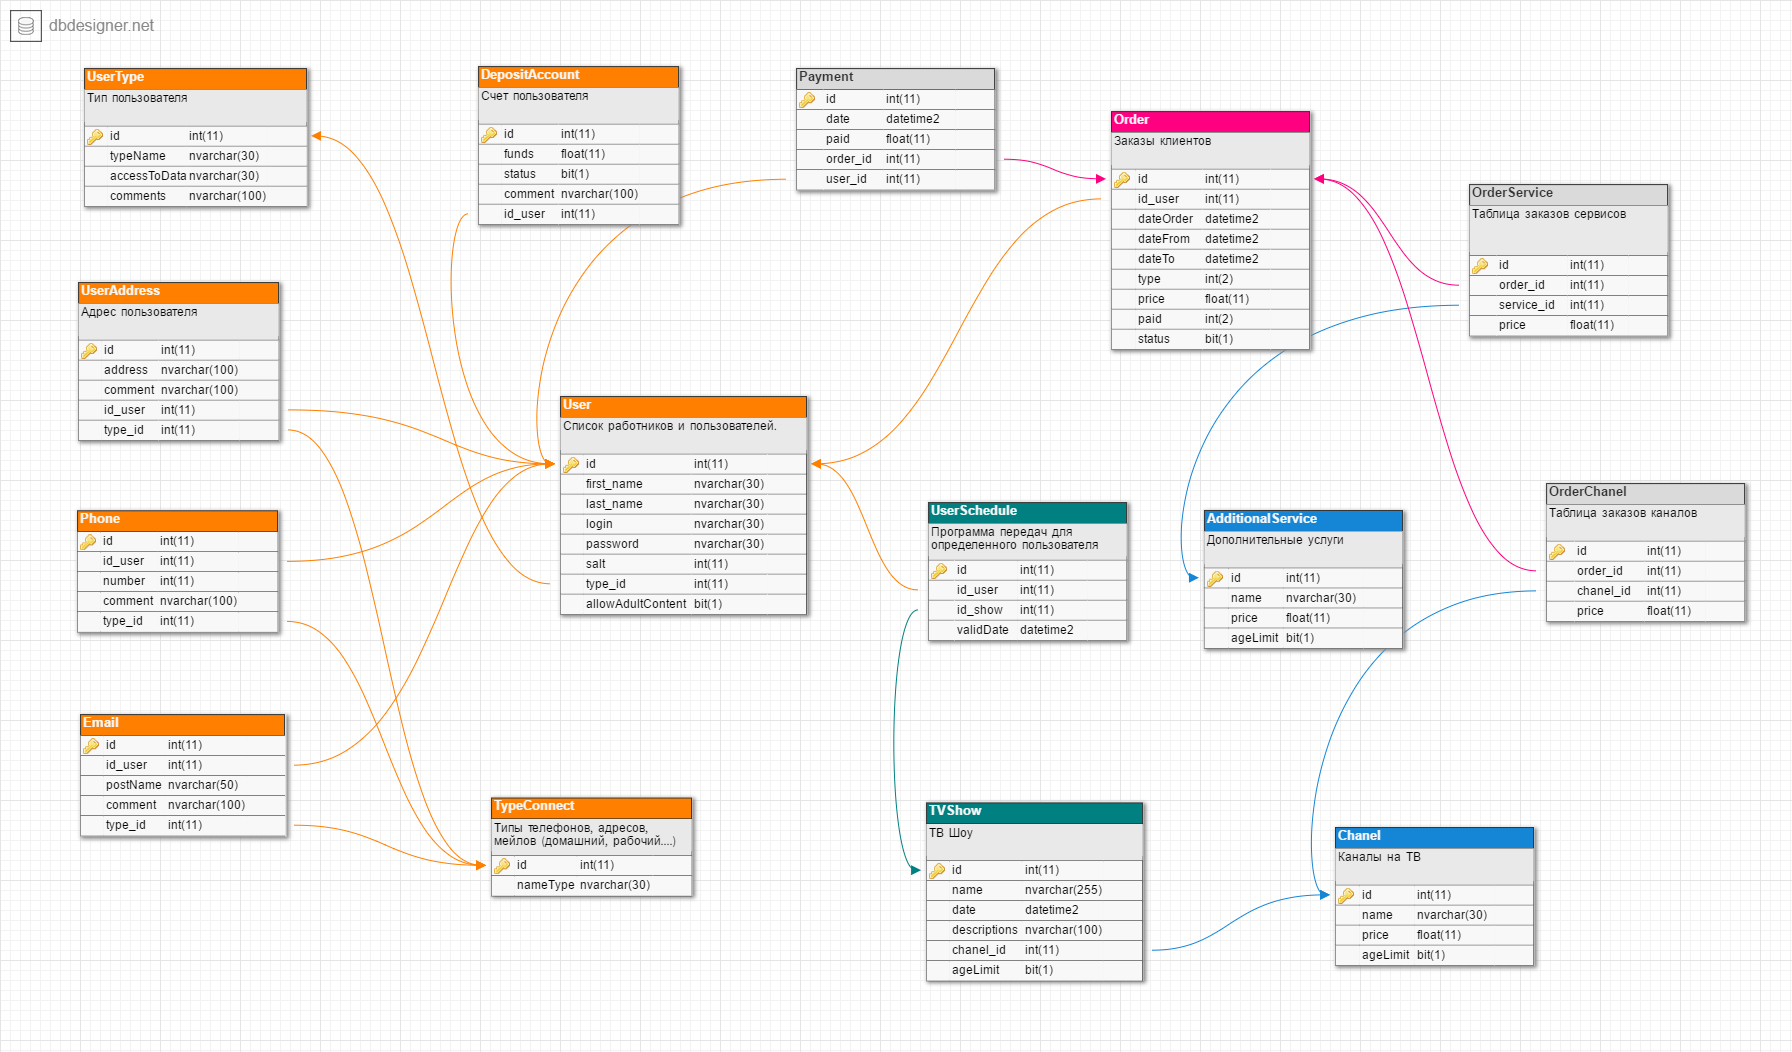
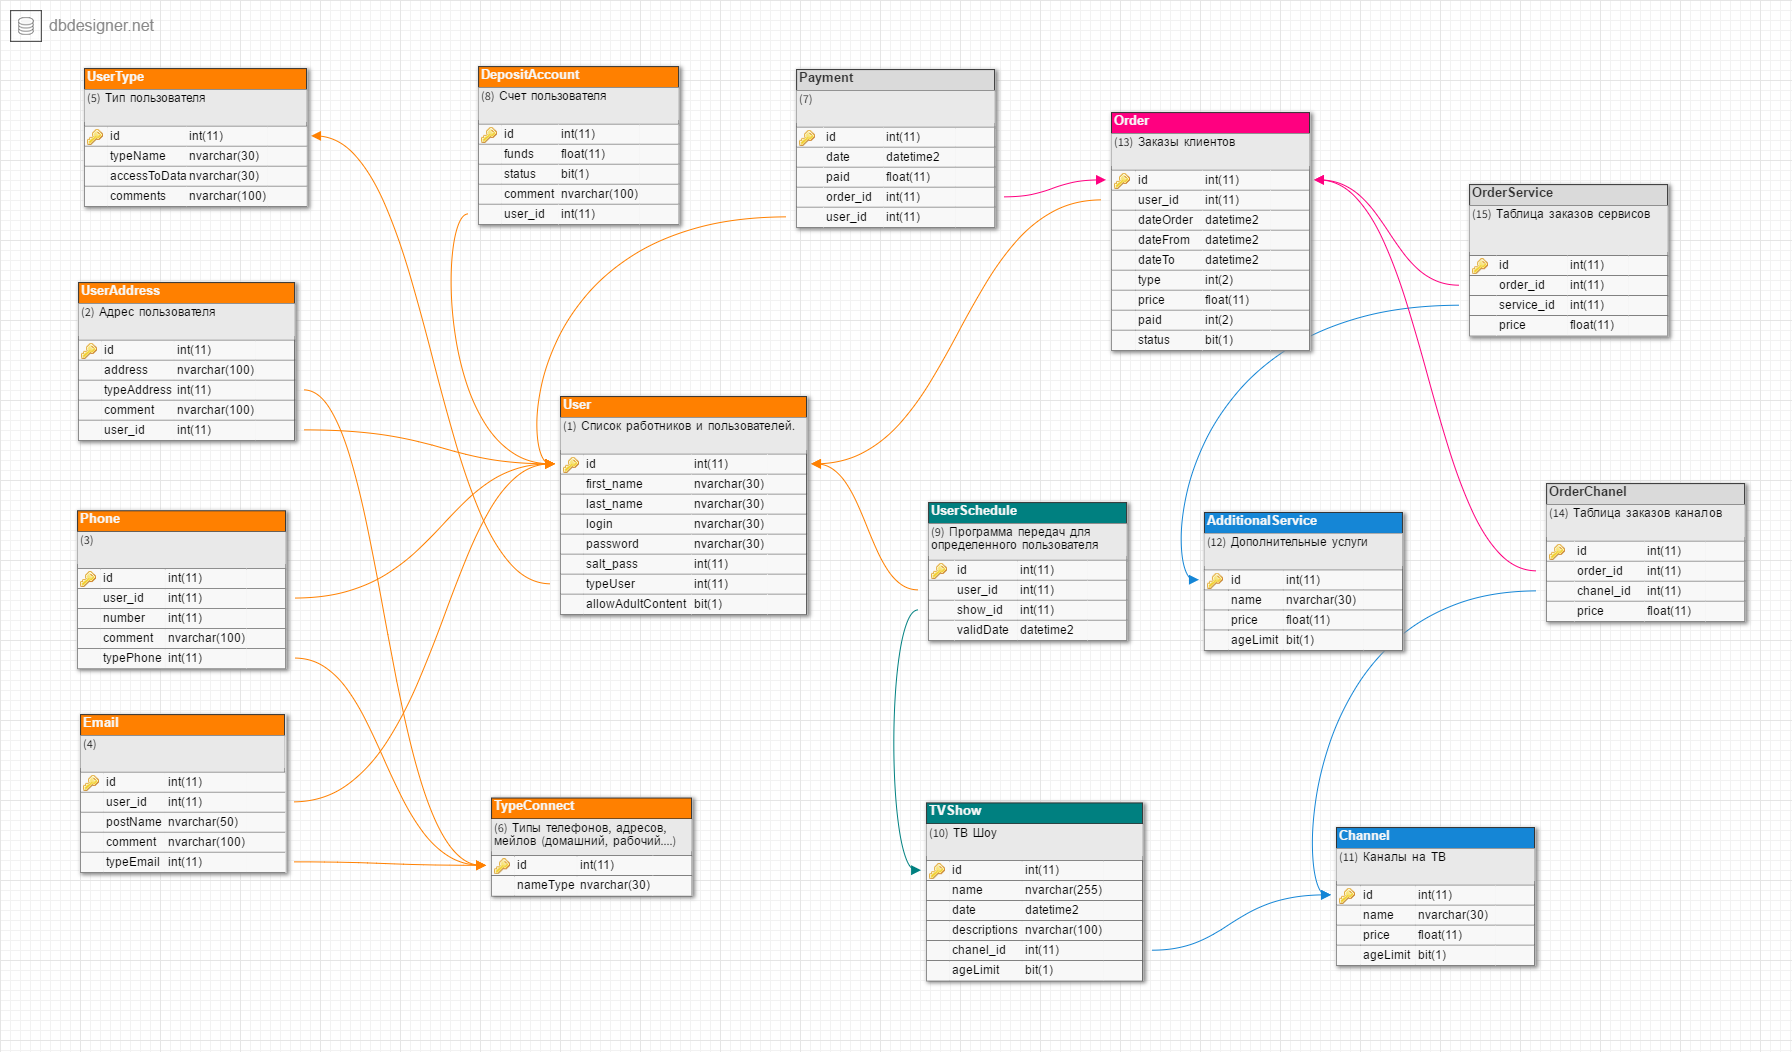
my changes was done in 4 classes

diff --git a/TVAppVNV/DataBaseTV/Phone.cs b/TVAppVNV/DataBaseTV/Phone.cs
@@ -1,7 +1,46 @@
-namespace TVAppVNV.DataBaseTV
+using System;
+using System.ComponentModel.DataAnnotations;
+using System.ComponentModel.DataAnnotations.Schema;
+
+namespace TVAppVNV.DataBaseTV
 {
     public class Phone
     {
+        public Phone()
+        {
+            
+        }
+        //Mark this field as primary key
+        [Key]
+        [DatabaseGenerated(DatabaseGeneratedOption.Identity)]
+        public int Id { get; set; }
         
+        //Id of user, who has this phone
+        [MaxLength(11)]
+        [Required]
+        public int UserId { get; set; }
+        
+        //create unique field of user phone
+        [Index(IsUnique = true)]
+        [MaxLength(11)]
+        [Required]
+        public int Number { get; set; }
+
+        //comment for different situations
+        [MaxLength(100, ErrorMessage = "Too long comment")]
+        public string Comment { get; set; }
+        
+        //create field for type phone(home, work, for advertise....)
+        [MaxLength(11)]
+        [Required]
+        public int TypePhone { get; set; }
+        
+        //Make linked entity as virtual for lazy loading work
+        [Required]
+        public virtual User User { get; set; }
+
+        [Required]
+        public virtual TypeConnect TypeConnect { get; set; }
+
     }
 }

diff --git a/TVAppVNV/DataBaseTV/UserAddress.cs b/TVAppVNV/DataBaseTV/UserAddress.cs
@@ -9,15 +9,16 @@ namespace TVAppVNV.DataBaseTV
     {
         public UserAddress()
         {
-            Id = Guid.NewGuid();
+             
         }
+
         //Mark this field as primary key
         [Key]
-        [MaxLength(11)]
-        public Guid Id { get; set; }
+        [DatabaseGenerated(DatabaseGeneratedOption.Identity)]
+        public int Id { get; set; }
 
         //create unique field of user address ???
-        //[Index(IsUnique = true)]
+        [Index(IsUnique = true)]
         [MinLength(10, ErrorMessage = "Too short address")]
         [MaxLength(100)]
         [Required]
@@ -35,18 +36,16 @@ namespace TVAppVNV.DataBaseTV
         //Id of user, who has this address
         [MaxLength(11)]
         [Required]
-        public int IdUser { get; set; }
+        public int UserId { get; set; }
 
         //Make linked entity as virtual for lazy loading work
-        //[Required]
-        //public virtual Users Users { get; set; }
+        [Required]
+        public virtual User User { get; set; }
 
-        //[Required]
-        //public virtual TypeConnect TypeConnect { get; set; }
-        
-            
-        
+        [Required]
+        public virtual TypeConnect TypeConnect { get; set; }
 
+        
 
     }
 }

diff --git a/TVAppVNV/DataBaseTV/UserType.cs b/TVAppVNV/DataBaseTV/UserType.cs
@@ -1,7 +1,41 @@
-namespace TVAppVNV.DataBaseTV
+using System;
+using System.ComponentModel.DataAnnotations;
+using System.ComponentModel.DataAnnotations.Schema;
+
+namespace TVAppVNV.DataBaseTV
 {
     public class UserType
     {
-        
+        public UserType()
+        {
+            
+        }
+
+        //Mark this field as primary key
+        [Key]
+        [DatabaseGenerated(DatabaseGeneratedOption.Identity)]
+        public int Id { get; set; }
+
+        //create unique field for type of users
+        [Index(IsUnique = true)]
+        [MinLength(2, ErrorMessage = "Too short address")]
+        [MaxLength(30)]
+        [Required]
+        public string TypeName { get; set; }
+
+        //create field for type of access each position
+        [MinLength(2, ErrorMessage = "Too short access description")]
+        [MaxLength(30)]
+        [Required]
+        public string AccessToData { get; set; }
+
+        //comment for different situations
+        [MaxLength(100, ErrorMessage = "Too long comment")]
+        public string Comment { get; set; }
+
+        //Make linked entity as virtual for lazy loading work
+        [Required]
+        public virtual User User { get; set; }
+
     }
 }

diff --git a/TVAppVNV/DataBaseTV/DepositAccount.cs b/TVAppVNV/DataBaseTV/DepositAccount.cs
@@ -1,7 +1,42 @@
-namespace TVAppVNV.DataBaseTV
+using System;
+using System.ComponentModel.DataAnnotations;
+using System.ComponentModel.DataAnnotations.Schema;
+
+namespace TVAppVNV.DataBaseTV
 {
     public class DepositAccount
     {
-        
+        public DepositAccount()
+        {
+            
+        }
+
+        //Mark this field as primary key
+        [Key]
+        [DatabaseGenerated(DatabaseGeneratedOption.Identity)]
+        public Guid Id { get; set; }
+
+        //the balance of the account
+        [MaxLength(11)]
+        [Required]
+        public double Balance { get; set; }
+
+        //whether active or suspended account
+        [Required]
+        public bool Status { get; set; }
+
+        //comment for different situations
+        [MaxLength(100, ErrorMessage = "Too long comment")]
+        public string Comment { get; set; }
+
+        //Id of user, who has this account
+        [MaxLength(11)]
+        [Required]
+        public int UserId { get; set; }
+
+        //Make linked entity as virtual for lazy loading work
+        [Required]
+        public virtual User User { get; set; }
+
     }
 }

diff --git a/TVAppVNV/DataBaseTV/TvDBContext.cs b/TVAppVNV/DataBaseTV/TvDBContext.cs
@@ -10,7 +10,7 @@ namespace TVAppVNV.DataBaseTV
             Database.SetInitializer<TvDBContext>(new TvDbIntializer());
         }
 
-        //list of tables in our database
+        //list of tables in TV database
         public DbSet<User> Users { get; set; } // 1
         public DbSet<UserAddress> UserAddresses { get; set; } //2
         public DbSet<Phone> Phones { get; set; } //3
